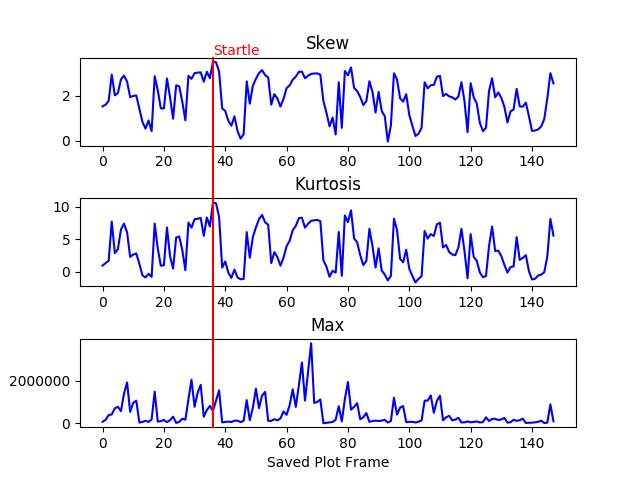
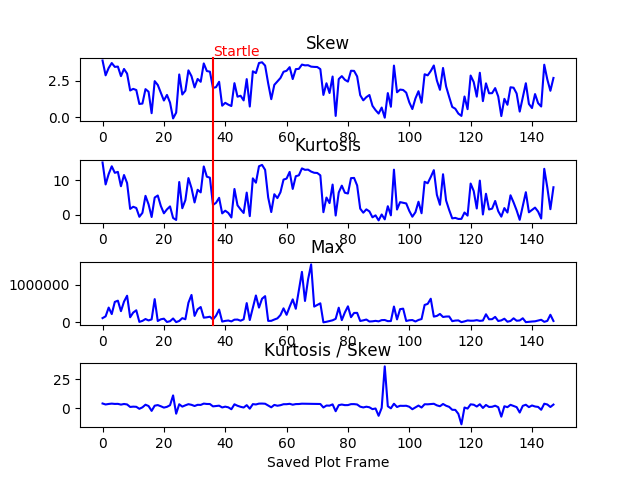
some noodling around

diff --git a/NewHogBased/scratch.py b/NewHogBased/scratch.py
@@ -284,9 +284,9 @@ while cap.isOpened():
                                                                 saveHistograms, hist_layout)
 
         # calculate and save the histogram metrics
-        hist_skew = skew(summedHist)
+        hist_skew = skew(summedHist, bias=True)
         skew_list.append(hist_skew)
-        hist_kurtosis = kurtosis(summedHist)
+        hist_kurtosis = kurtosis(summedHist, bias=True, fisher=False)
         kurtosis_list.append(hist_kurtosis)
         hist_max = np.amax(summedHist)
         max_list.append(hist_max)
@@ -309,7 +309,7 @@ while cap.isOpened():
 plt.figure("data")
 
 # print('savedplotcount: ', savedPlotCount, 'hist_skew count: ', len(skew_list))
-plt.subplot(3, 1, 1, zorder=1)
+plt.subplot(4, 1, 1, zorder=1)
 s1 = plt.axvline(x=startleFrame, ymin=-3.2, ymax=1, label='startle', c='red', zorder=20, clip_on=False)
 plt.text(startleFrame, max(skew_list) + 0.3, "Startle", color='red')
 if extraStartle:
@@ -317,12 +317,17 @@ if extraStartle:
     plt.text(extraStartle, max(skew_list) + 0.3, "Startle", color='red')
 plt.title('Skew')
 p1 = plt.plot(range(len(skew_list)), skew_list, c='blue', zorder=2)
-plt.subplot(3, 1, 2, zorder=-1)
+plt.subplot(4, 1, 2, zorder=-1)
 plt.title('Kurtosis')
 p2 = plt.plot(range(len(kurtosis_list)), kurtosis_list, c='blue', zorder=2)
-plt.subplot(3, 1, 3, zorder=-1)
+plt.subplot(4, 1, 3, zorder=-1)
 plt.title('Max')
 p3 = plt.plot(range(len(max_list)), max_list, c='blue', zorder=2)
+plt.subplot(4, 1, 4, zorder=-1)
+plt.title('Kurtosis / Skew')
+test = [float(ai)/bi for ai, bi in zip(kurtosis_list, skew_list)]
+p3 = plt.plot(range(len(max_list)), test, c='blue', zorder=2)
+
 plt.xlabel('Saved Plot Frame')
 plt.subplots_adjust(hspace=0.6)
 
